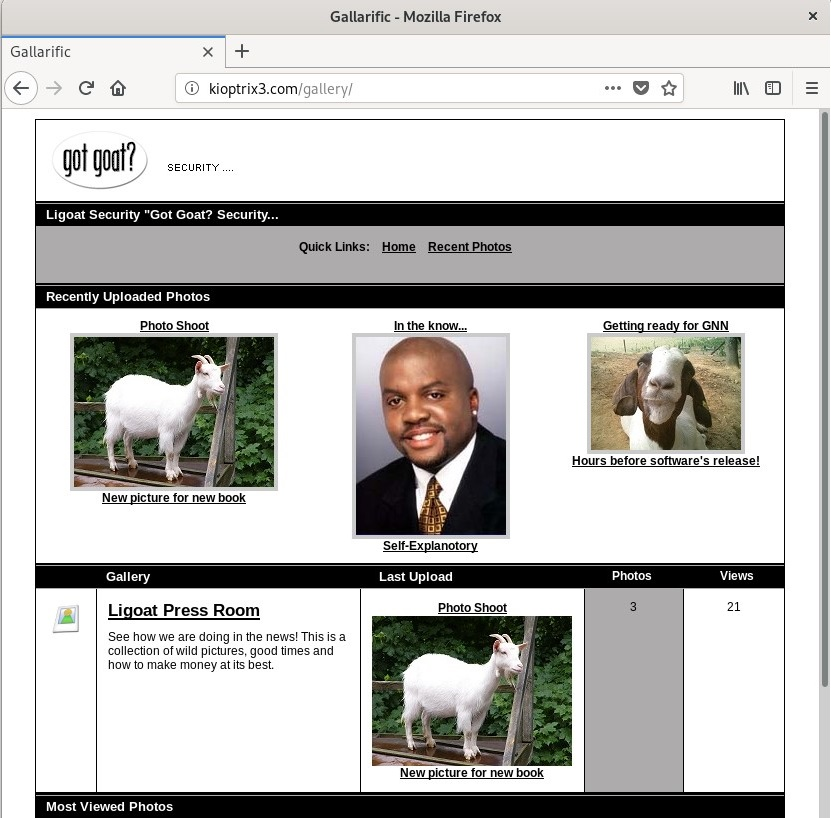
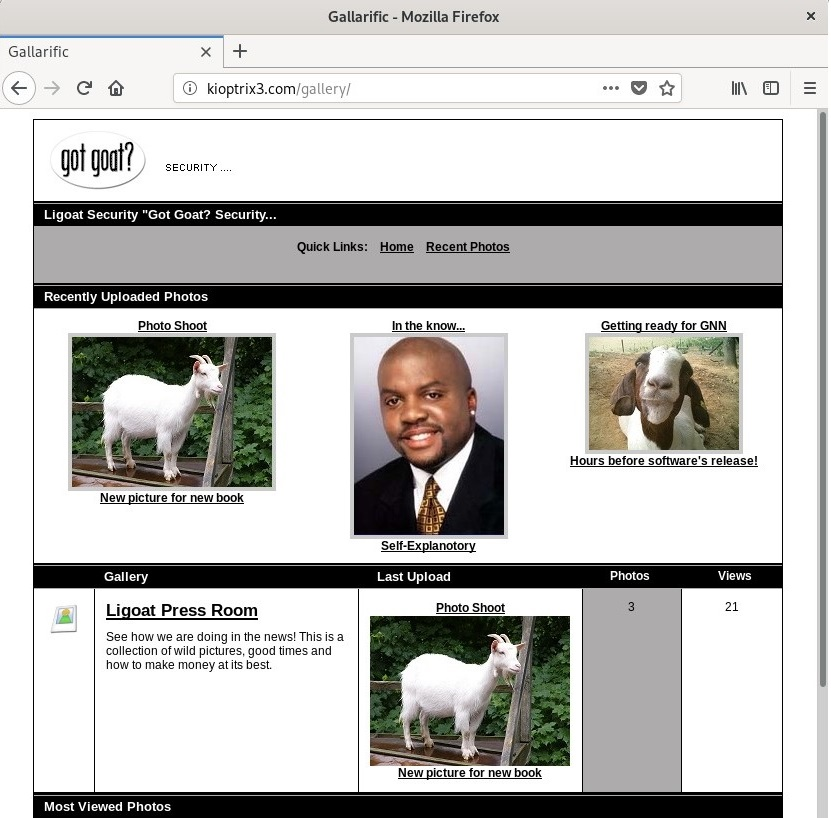
Continued attempts for a shell for kioptrix-level-3

diff --git a/kioptrix-level-3.md b/kioptrix-level-3.md
@@ -97,9 +97,21 @@ By Kioptrix
 * The set of credentials which we had obtained from the SQL injection is `admin:n0t7t1k4`. Tried it on `http://10.0.2.15/index.php?system=Admin` and `http://10.0.2.15/phpmyadmin/`, but both failed to log us in. Finally, I tried it on `http://10.0.2.15/gallery/gadmin/` and we are in!
 ![](/screenshots/kioptrix-level-3/httpGalleryGadminLoginSuccess.jpg)
 * The `Comments` system is disabled, as shown from the missing `/comments.php` when trying to `View comments` from the `Dashboard`.
+* Heading to `Presentation` > `Theme Editor`, we find that we are able to view the source code of various parts of the Gallarific site. However, we do not have permissions to edit the source code.
+![](/screenshots/kioptrix-level-3/httpGalleryThemeEditor.jpg)
+* Since we could not edit the source code manually, I headed to `Themes` and managed to change the theme to another colour, which contains the original general Gallarific template. We are able to see the new changes at `http://kioptrix3.com/gallery/`. Nothing much that is unexpected. 
 * Navigating to `Users`, I found that we as `admin` (with the `Super User` role), were the only user on the platform.
-* I tried to upload the standard `php-reverse-shell` (by pentestmonkey) as .php and .img but both did not execute as code.
-* I also tried to [embed shell code into an image](https://www.youtube.com/watch?v=nNB9XlRfvzw0), but my efforts probably all did not work because each image did not retain its original file name and extension, and when trying to access the image, we see the file name being some random string, e.g. `92k26hge4q.jpg` with a .jpg file extension.
+* I found out that we were able to head to `Photos` and `Upload Photos`. I tried the following ways to get our PHP-reverse-shell code executed (the port intended for the reverse shell connection was `80` (just in case there is a firewall): (No matter what we uploaded, the file extension was always `.jpg`)
+1. Uploading `php-reverse-shell.php` (by pentestmonkey) as it is - file name generated in `.jpg`, but not saved into `images` directory.
+2. Case 1, but this time, I intercepted the request made by a legitimate photo upload, found its Content-Type to be `image/jpeg`, versus the Content-Type of Case 1 which was `application/x-php`, and modified Case 1's Content-Type to be the one accepted by a legitimate photo upload.
+* Our 'image' is now saved into the `images` directory as a `.jpg`, but our code is still not executed.
+![](/screenshots/kioptrix-level-3/httpGalleryUploadNewPhotoRequestChangeContentType.jpg)
+* Doing a GET request for our `image` shows that our code remains intact, but the Content-Type remains to be `image/jpeg`. On one hand, it allowed for our shell code to be uploaded, but on the other hand, we cannot now trigger the execution of the code.
+![](/screenshots/kioptrix-level-3/httpGalleryGetRequestForImageWithCode.jpg)
+3. Uploading `php-reverse-shell.php.jpg` (only change in file extension - file contents not modified) - saved into `images` directory as `.jpg` file, but displays an error to say that "the image cannot be displayed because it contains errors". Same output as Case 2.
+4. Run `exiftool -Comment='<?php echo "<pre>"; system($_GET['cmd']); ?>' goat.jpg` on a legitimate image - this involves [embedding shell code into an image](https://www.youtube.com/watch?v=nNB9XlRfvzw0). Loading `http://kioptrix3.com/gallery/photos/41980v2zfb.jpg?cmd=id` yielded nothing. Somehow
+I could not manage to get Burp Suite to intercept both the request and response regarding the GET request for the image, but our browser tools showed that what was returned was simply the image itself.
+5. The `GIF89a?` way of adding it to the beginning of the code (and leaving the file extension as .php) does not work here (very likely because the file extension check is done at the `Content-Type` parameter only), and results in the same result in Case 1.
 * Without being able to find a way to get a shell from the admin panel, I went back to the SQL injection vulnerability to look for a way to do so.
 * First, I tried to figure out what we could do:
 1. Getting SQL database version `5.0.51a-3ubuntu5.4`: `/gallery.php?id=null+and+1=2+union+select+1,@@version,3,4,5,6+from+gallarific_users--`
